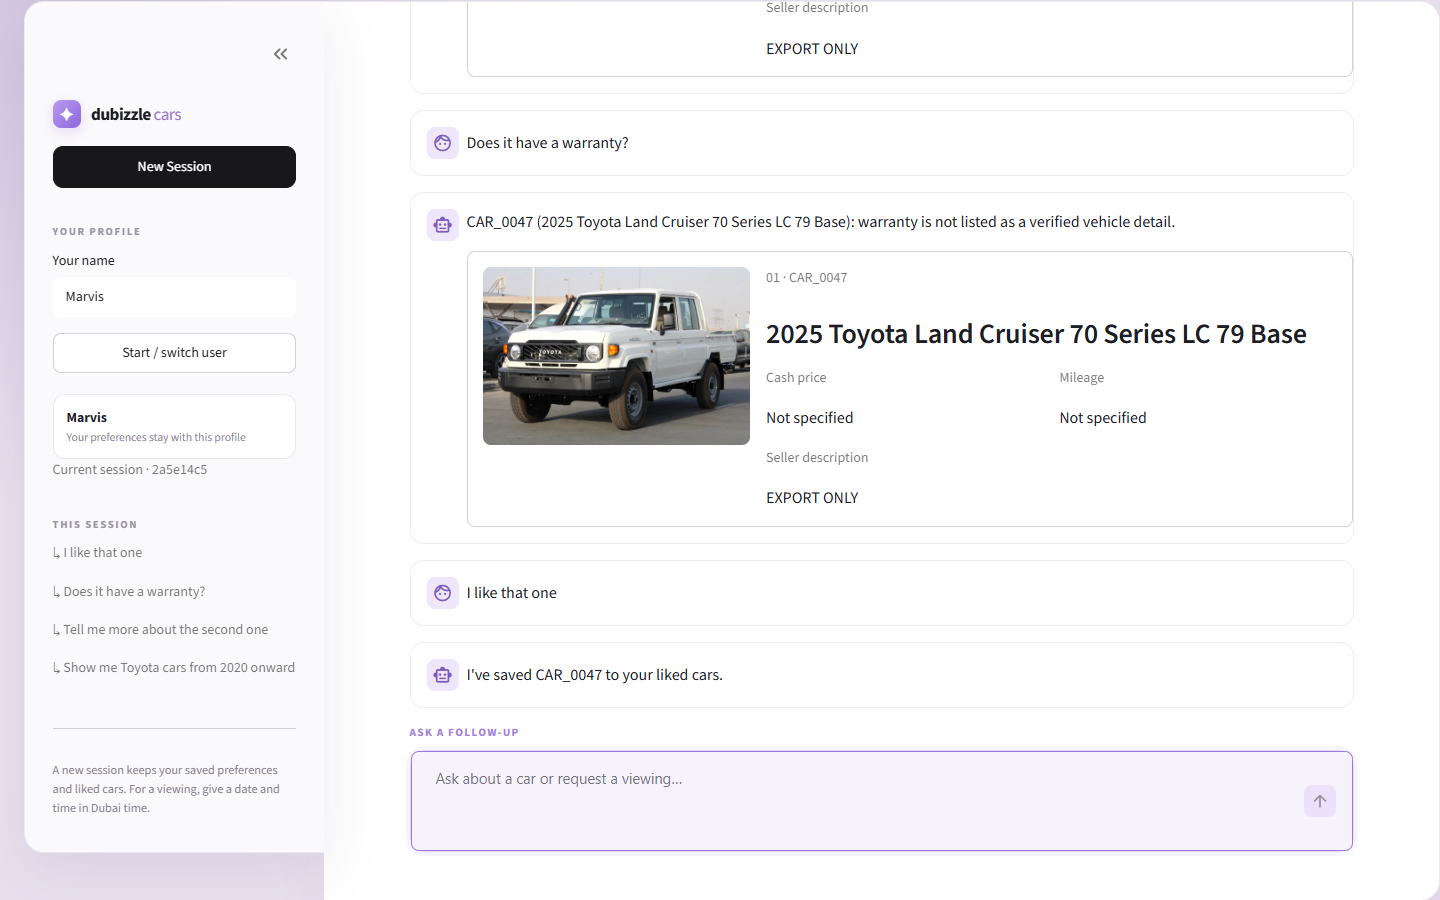
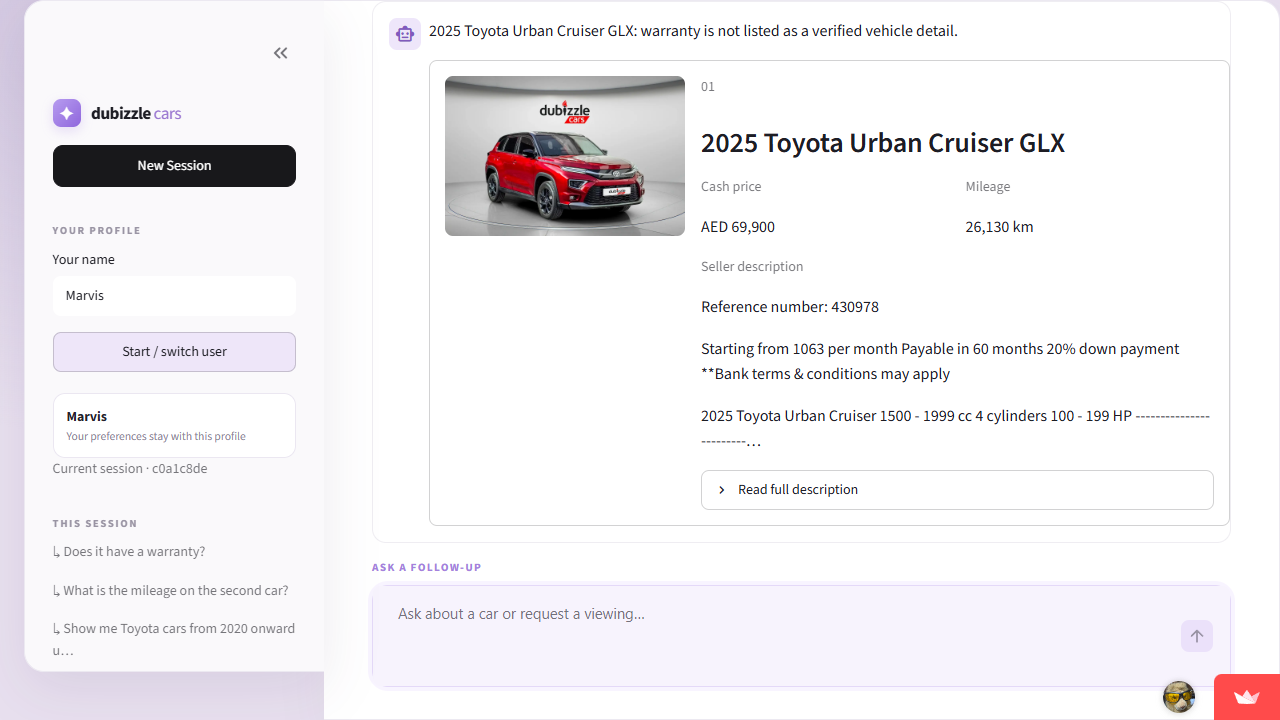
Document deployed assessment audit with current screenshots

diff --git a/README.md b/README.md
@@ -4,7 +4,7 @@ A FastAPI car-search assistant with a Streamlit chat client. [Try the hosted dem
 
 ## Quick start
 
-You need Python 3.13, [uv](https://docs.astral.sh/uv/getting-started/installation/), the supplied `Cars_data.xlsx`, and credentials for PostgreSQL, Qdrant, and the NVIDIA embedding and chat APIs. Put `Cars_data.xlsx` in this folder. It is excluded from the repository because seller descriptions contain contact numbers.
+You need Python 3.11 or newer, [uv](https://docs.astral.sh/uv/getting-started/installation/), the supplied `Cars_data.xlsx`, and credentials for PostgreSQL, Qdrant, and the NVIDIA embedding and chat APIs. Put `Cars_data.xlsx` in this folder. It is excluded from the repository because seller descriptions contain contact numbers.
 
 Create a local `.env` file (gitignored). Use a full PostgreSQL URI for `Supabase_Link`:
 
@@ -45,24 +45,26 @@ Open `http://localhost:8501`, enter a name, and select **Start / switch user**. 
 
 I chose Streamlit for a lightweight reactive chat UI and kept search, memory, leads, and booking rules in FastAPI. There is no separate agent framework: a small Python controller uses NVIDIA Nemotron tool calls and validates them before acting. PostgreSQL applies exact filters and supplies the vehicle facts; Qdrant ranks eligible listing IDs for fuzzy queries. PostgreSQL stores recent conversation state and persistent user preferences, which lets a new session recall a returning user without trusting the browser as the source of truth.
 
-The backend returns supplied listing IDs, marks missing prices or mileage as unknown, exports qualified leads to local `data/leads.csv`, and records only simulated viewing requests for Monday–Saturday, 08:00–20:00 Dubai time. The workbook has no managed-car flag, so this prototype treats every supplied listing as eligible. Future work would add authentication, real slot availability, durable hosted lead export, verified body-style attributes, and a labelled search-relevance evaluation set.
+The backend keeps listing IDs for follow-up references while Streamlit shows car names. It marks missing prices or mileage as unknown, exports qualified leads to `data/leads.csv`, and records simulated viewing requests for Monday to Saturday, 08:00 to 20:00 Dubai time. The workbook has no managed-car flag, so every supplied listing is treated as eligible. Future work would add authentication, real slot availability, durable hosted lead export, verified body-style attributes, and a labelled search-relevance evaluation set.
 
-## Required conversation evidence
+## Deployed conversation evidence
 
-These screenshots use the name **Marvis** and were captured from the local client and backend against the same 189-car PostgreSQL and Qdrant inventory as the hosted demo.
+These screenshots were captured from the [deployed Streamlit app](https://app-dubizzle-case-study-48ew9fpqpk2dou4ybavz2g.streamlit.app/) on 24 September 2026 using the name **Marvis**.
 
 ![Marvis starts a session](docs/streamlit_welcome.png)
 
-![Marvis saves a preference and explores Toyota listings](docs/streamlit_results.png)
+![Marvis receives Toyota listings with names, prices, and mileage but no internal listing IDs](docs/streamlit_results.png)
 
-![Marvis asks follow-up questions about the second car and likes it](docs/streamlit_followup.png)
+![A follow-up warranty question stays on the Toyota Urban Cruiser selected as the second result](docs/streamlit_followup.png)
 
 ![A completely new session recalls Marvis's preferences and liked cars](docs/streamlit_memory.png)
 
-In session one, Marvis saved a Toyota SUV preference and AED 150,000 budget, searched the inventory, asked about the second result, asked whether it had a warranty, and liked it. In a **new session** with a different session ID, the assistant recalled the Toyota, SUV, and budget preferences along with liked cars. Another car in that screenshot was liked during an earlier check of the same demo profile.
+![A fresh browser rejoins as Marvis and recalls the same profile](docs/streamlit_rejoin.png)
 
-## Verification and current limits
+Marvis saved a Toyota SUV preference and AED 150,000 budget, searched for Toyota cars from 2020 under that budget, asked for the second car's mileage and warranty, and liked it. A **new session** and a separate browser both recalled the preference and liked car. Other liked cars in the memory screenshots were saved during earlier checks of the same demo profile.
 
-The local test suite passed **50 tests** on 24 September 2026. It covers retrieval, multi-turn references, returning-user memory, lead CSV writing, viewing hours, and out-of-scope requests. The API health check reported 189 cars and 189 vectors. On the deployed app, "I'm into SUVs" was saved and recalled in a new session and after rejoining the same profile in a fresh browser.
+## Verification and limits
 
-The assignment directs applicants to use a Google AI Studio API key; this implementation uses NVIDIA API keys instead, so that substitution needs to be accepted by the evaluator. Body style is not a verified hard filter, so an SUV request can include other vehicle types until the source data supports that filter. Name-only identity is suitable for a demo, not a real user account.
+The deployed app returned cars within the requested make, year, and price limits; returned no listings for an impossible Toyota price; accepted a Saturday 10:00 viewing request; rejected Sunday and 21:00 requests; asked a new user about needs, budget, and contact details; and declined coding and competitor questions. The public UI cannot expose the server-side lead CSV, so CSV export is verified from `app/services/leads.py` rather than from the hosted file.
+
+The PDF instructs applicants to use a Google AI Studio API key; this project uses NVIDIA APIs, so that instruction is **not met**. Semantic results can include loose matches, an unfamiliar make may receive a generic scope reply, and body style is not a verified hard filter. Viewing requests are simulated, and name-only identity is for this demo.
